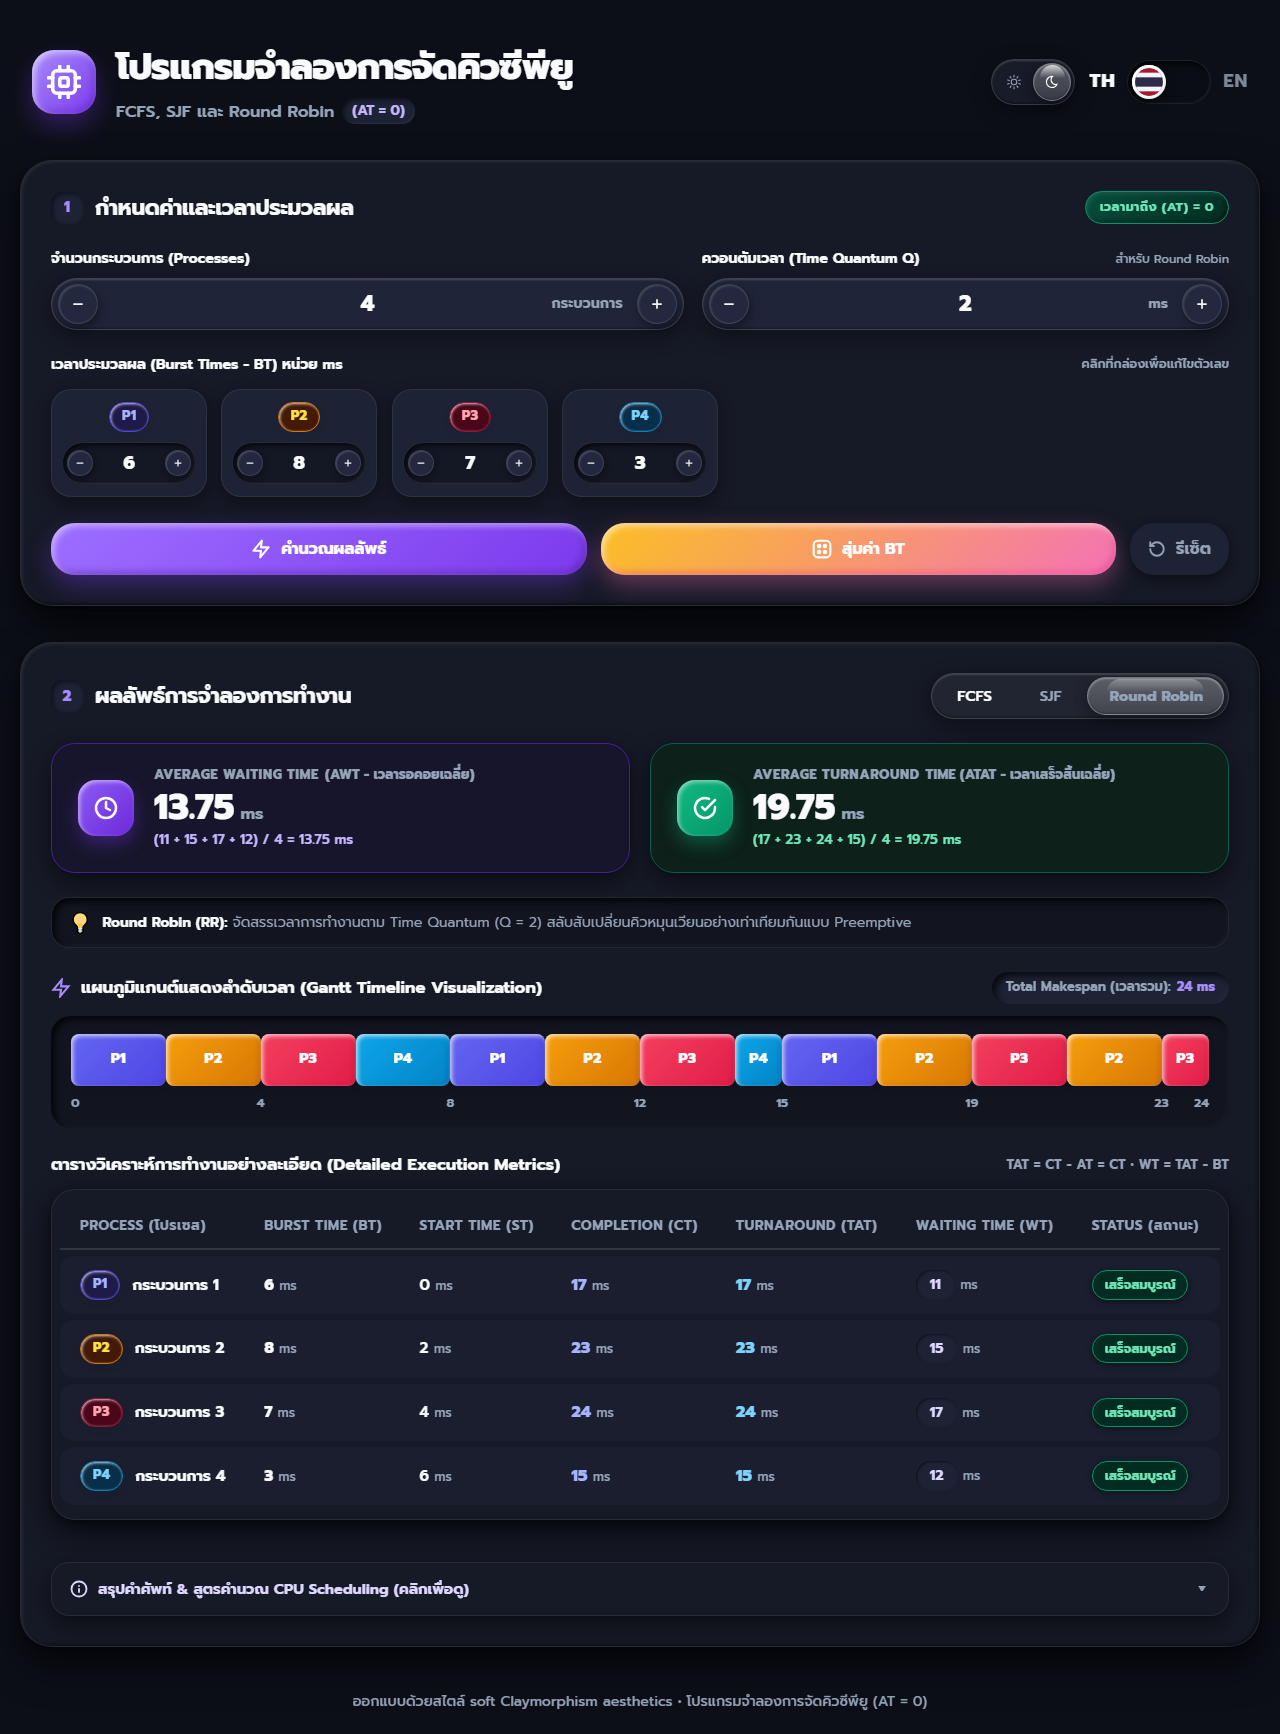
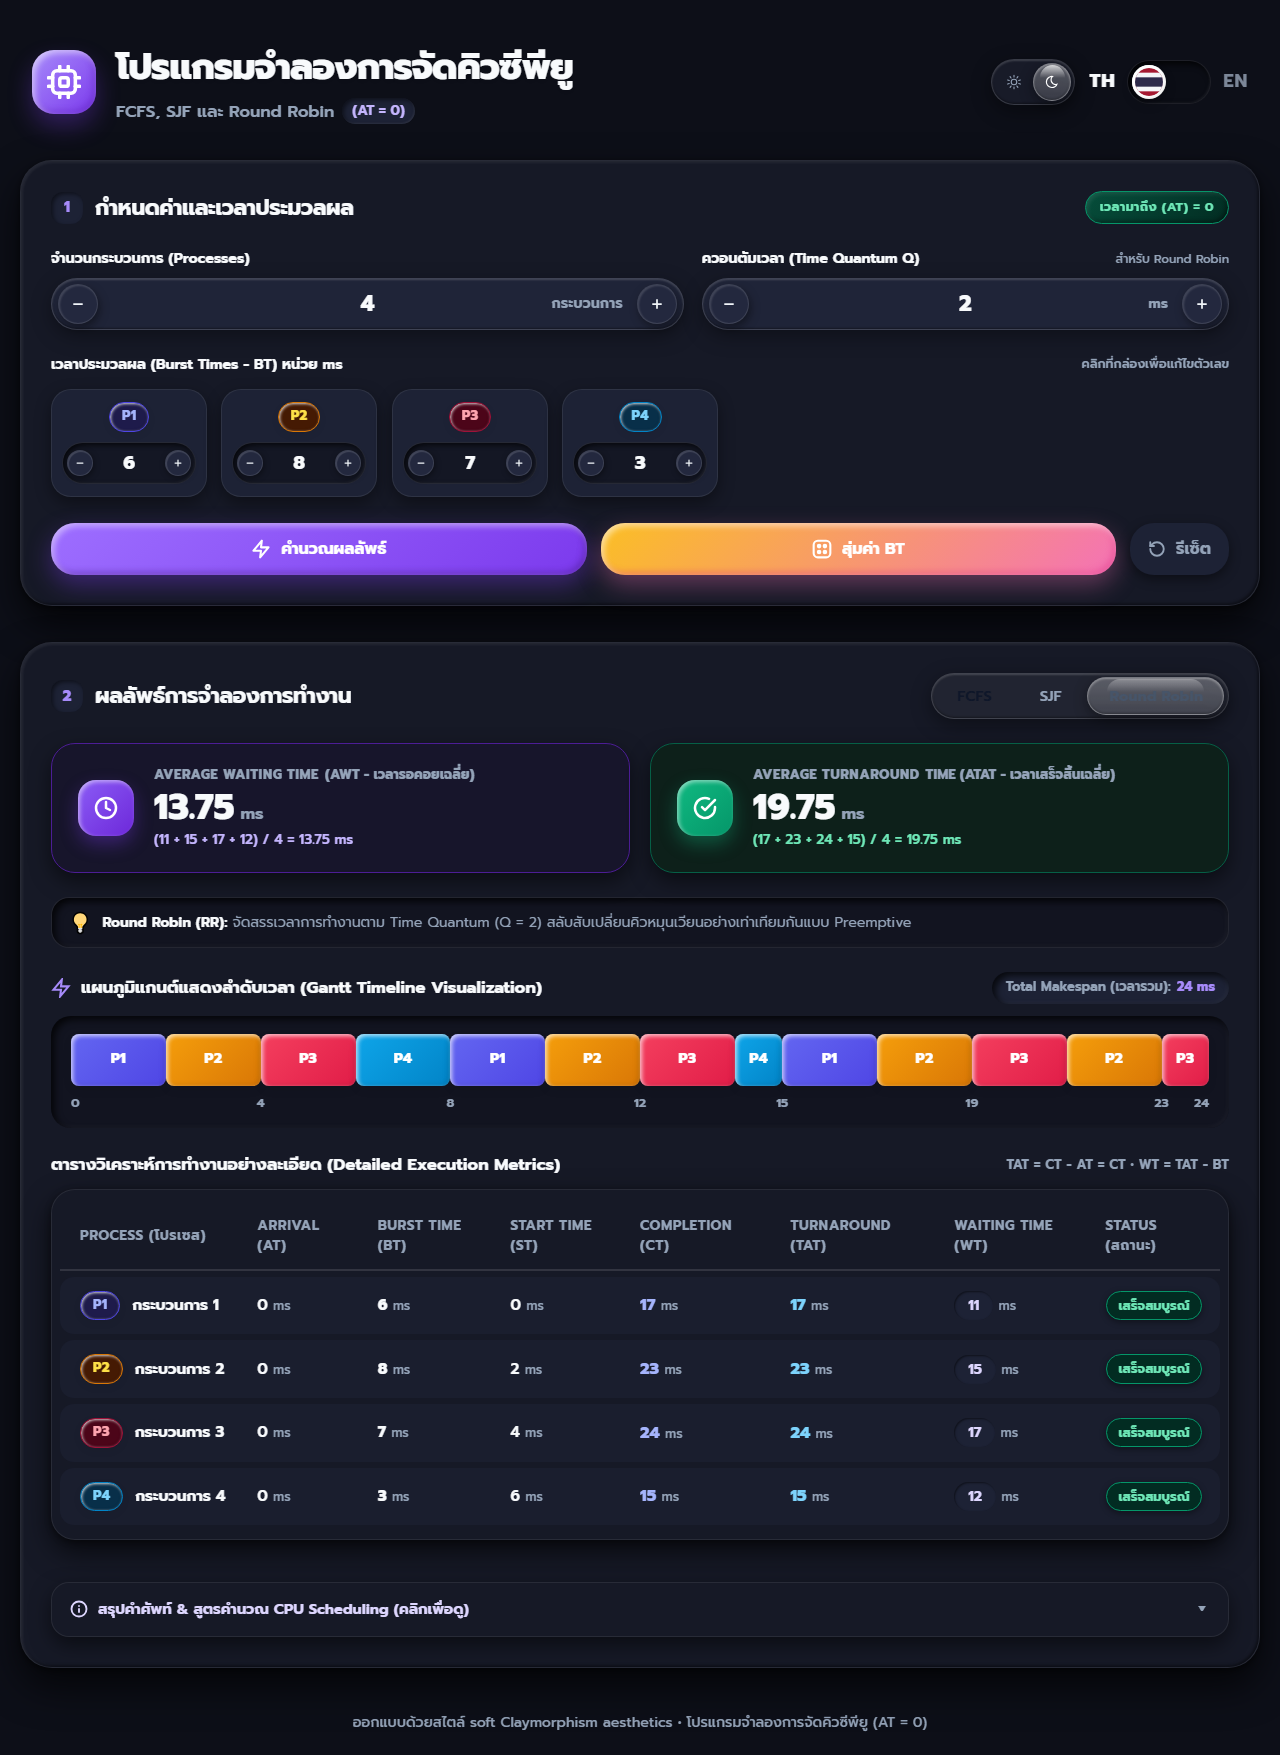
feat(ui): add the Arrival Time column and assignment deliverables to README
- the metrics table now shows exactly the columns the assignment requires:
  PROCESS, ARRIVAL (AT), BURST TIME, START, COMPLETION, TURNAROUND, WAITING, STATUS
  (AT is always 0 in this simulator, but the column is required by the brief)
- i18n keys for the new header (th/en); engine rows now carry `at: 0`
- keep the process name on one line now that the table has eight columns
- README: sample test data (the three required cases plus a hand-verified
  FCFS calculation), tools & versions, and the AI usage disclosure section
- regenerate the light/dark screenshots so they match the new table

diff --git a/index.html b/index.html
@@ -380,6 +380,7 @@
                 <thead>
                   <tr>
                     <th scope="col" class="th-process" id="th-process">PROCESS</th>
+                    <th scope="col" id="th-at">ARRIVAL (AT)</th>
                     <th scope="col" id="th-bt">BURST TIME (BT)</th>
                     <th scope="col" id="th-st">START TIME (ST)</th>
                     <th scope="col" id="th-ct">COMPLETION (CT)</th>
@@ -477,6 +478,7 @@
           formulaHintText: "TAT = CT - AT = CT • WT = TAT - BT",
           resultsTableAria: "ตารางผลการคำนวณการจัดคิวของกระบวนการ",
           thProcess: "PROCESS (โปรเซส)",
+          thAt: "ARRIVAL (AT)",
           thBt: "BURST TIME (BT)",
           thSt: "START TIME (ST)",
           thCt: "COMPLETION (CT)",
@@ -557,6 +559,7 @@
           formulaHintText: "TAT = CT - AT = CT • WT = TAT - BT",
           resultsTableAria: "Detailed metrics table for CPU processes",
           thProcess: "PROCESS",
+          thAt: "ARRIVAL (AT)",
           thBt: "BURST TIME (BT)",
           thSt: "START TIME (ST)",
           thCt: "COMPLETION TIME (CT)",
@@ -632,6 +635,7 @@
           'label-table-title': t.labelTableTitle,
           'formula-hint-text': t.formulaHintText,
           'th-process': t.thProcess,
+          'th-at': t.thAt,
           'th-bt': t.thBt,
           'th-st': t.thSt,
           'th-ct': t.thCt,

diff --git a/app.js b/app.js
@@ -228,7 +228,8 @@
       totalMakespanNum: makespan,
       blocks,
       stamps,
-      rows,
+      // AT = 0 สำหรับทุกโปรเซส (ข้อกำหนดของโจทย์) — ใส่ไว้เพื่อให้ตารางมีคอลัมน์ Arrival Time
+      rows: rows.map(r => Object.assign({ at: 0 }, r)),
       descTh,
       descEn
     };
@@ -389,6 +390,7 @@
               <span class="proc-cell-name">${procLabel}</span>
             </div>
           </td>
+          <td>${r.at} <span class="unit-text">ms</span></td>
           <td><strong>${r.bt}</strong> <span class="unit-text">ms</span></td>
           <td>${r.st} <span class="unit-text">ms</span></td>
           <td><span class="ct-highlight">${r.ct}</span> <span class="unit-text">ms</span></td>

diff --git a/styles.css b/styles.css
@@ -1391,6 +1391,7 @@ body {
   font-family: var(--font-heading);
   font-weight: 700;
   color: var(--text-main);
+  white-space: nowrap;
 }
 .ct-highlight {
   font-family: var(--font-heading);

diff --git a/README.md b/README.md
@@ -25,7 +25,7 @@ An interactive, responsive CPU-scheduling simulator built with vanilla HTML/CSS/
 ### Results
 
 - **Gantt timeline** — the bar is a CSS grid whose columns are `BT fr` units, so every block edge lines up exactly with its timestamp. With more than 8 slices the chart switches to a compact mode (smaller radius, slice durations hidden) and the axis thins out its labels instead of overlapping them.
-- **Metrics table** — Burst Time, Start Time, Completion Time, Turnaround Time, Waiting Time and status for every process.
+- **Metrics table** — Arrival Time (always 0), Burst Time, Start Time, Completion Time, Turnaround Time, Waiting Time and status for every process, exactly the columns required by the assignment.
 - **Summary cards** — Average Waiting Time and Average Turnaround Time with the full arithmetic, e.g. `(0 + 6 + 14 + 21) / 4 = 10.25 ms`, plus the total makespan.
 
 ### Input & controls
@@ -154,6 +154,54 @@ ALL PASS (51)
 ```
 
 The script exits with **0** when everything passes and **1** on the first failure, so it can be wired into CI as-is.
+
+---
+
+## 🧪 Sample test data
+
+The three test cases required by the assignment. Open the simulator and enter:
+
+| # | Input | Expected result |
+| :-: | :--- | :--- |
+| 1 | 4 processes, BT = **6, 8, 7, 3**, Q = 2 → press **Calculate**, then switch tabs | **FCFS** 10.25 / 16.25 · **SJF** 7.00 / 13.00 · **RR** 13.75 / 19.75 (AWT / ATAT), makespan 24 ms |
+| 2 | Any process count → press **สุ่มค่า BT (randomise)** | Every process receives an integer BT ≥ 1 and all three tabs calculate without an error |
+| 3 | Same BT as case 1, open the **Round Robin** tab and change Q from 2 to 5 | RR AWT becomes **14.75** (from 13.75) and ATAT **20.75** (from 19.75) |
+
+Hand-verified calculation (case 1, FCFS, all AT = 0):
+
+| Step | Calculation | Result |
+| :--- | :--- | :--- |
+| CT | running total of BT (6, 8, 7, 3) | 6, 14, 21, 24 |
+| TAT | TAT = CT − AT = CT | 6, 14, 21, 24 |
+| WT | WT = TAT − BT | 0, 6, 14, 21 |
+| AWT | (0 + 6 + 14 + 21) / 4 | **10.25 ms** |
+| ATAT | (6 + 14 + 21 + 24) / 4 | **16.25 ms** |
+
+These numbers match the summary cards in the UI and the assertions in `tests/engine.spec.js`.
+
+---
+
+## 🧰 Tools & versions
+
+| Tool | Version | Used for |
+| :--- | :--- | :--- |
+| Google Chrome (Windows) | 153.0.8010.37 | primary browser for testing the app |
+| Node.js | 24.21.0 — *optional* | running `tests/engine.test.js`; the app itself needs no runtime |
+| HTML / CSS / JavaScript | — | no framework, no bundler, no dependency installation |
+
+To run the app: open `index.html` in Chrome (or use the live demo link at the top).
+
+---
+
+## 🤖 AI usage disclosure
+
+Required by the assignment (ส่วนที่ 3). The AI was used as a reviewing/refactoring assistant, not as a replacement for understanding the code.
+
+- **Tool:** an AI coding agent (DeepSeek Harness, model `deepseek-flash`) working directly inside the repository.
+- **What it helped with:** reviewing the implementation, fixing validation and UI-state bugs (invalid input while switching tabs/languages), rewriting the Gantt bar as a proportional grid, removing dead code, writing the 51-assertion test suite, and drafting this README.
+- **Example prompts:** “Review Code ที่ผมทำหน่อยว่ามีอะไรต้องแก้ไขไหม”, “แก้แค่ข้อ 2 ปุ่มรีเซ็ตไม่รีเซ็ต Burst Time”, “เพดาน BT แก้เลย และ !important 50 จุดในกลุ่ม stepper”.
+- **How the output was verified:** the 51 automated assertions (`tests/engine.spec.js`), headless-browser checks of the UI flows, the hand calculation in *Sample test data* above, and visual review of the screenshots in `docs/`.
+- Every change was read through and can be explained in the presentation video; nothing was copied without verification.
 
 ---
 
